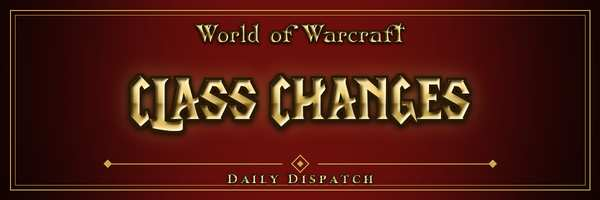
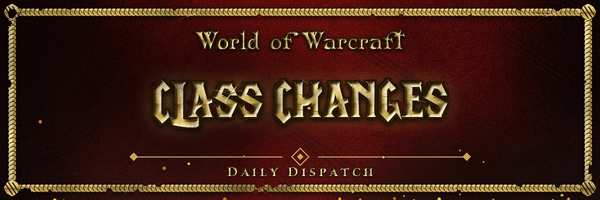
Replace header with rope-border version
Claude-Session: https://claude.ai/code/session_012hANGnZCfhgGUh7D16A8SE

diff --git a/README.md b/README.md
@@ -43,7 +43,7 @@ From Blizzard's official WoW: Forever press kit, resized for email.
 The Gmail connector strips web-linked images, so the newsletter attaches these small files instead.
 | File | Size | Use |
 |---|---|---|
-| `email/header-600.jpg` | ~10 KB | Header banner (600×200) |
+| `email/header-600.jpg` | ~13 KB | Header banner (600×200) |
 | `email/icon-shaman.png` | ~2 KB | Totes Alot |
 | `email/icon-warlock.png` | ~2 KB | Summons Alot |
 | `email/icon-druid.png` | ~2 KB | Growlz Alot |
